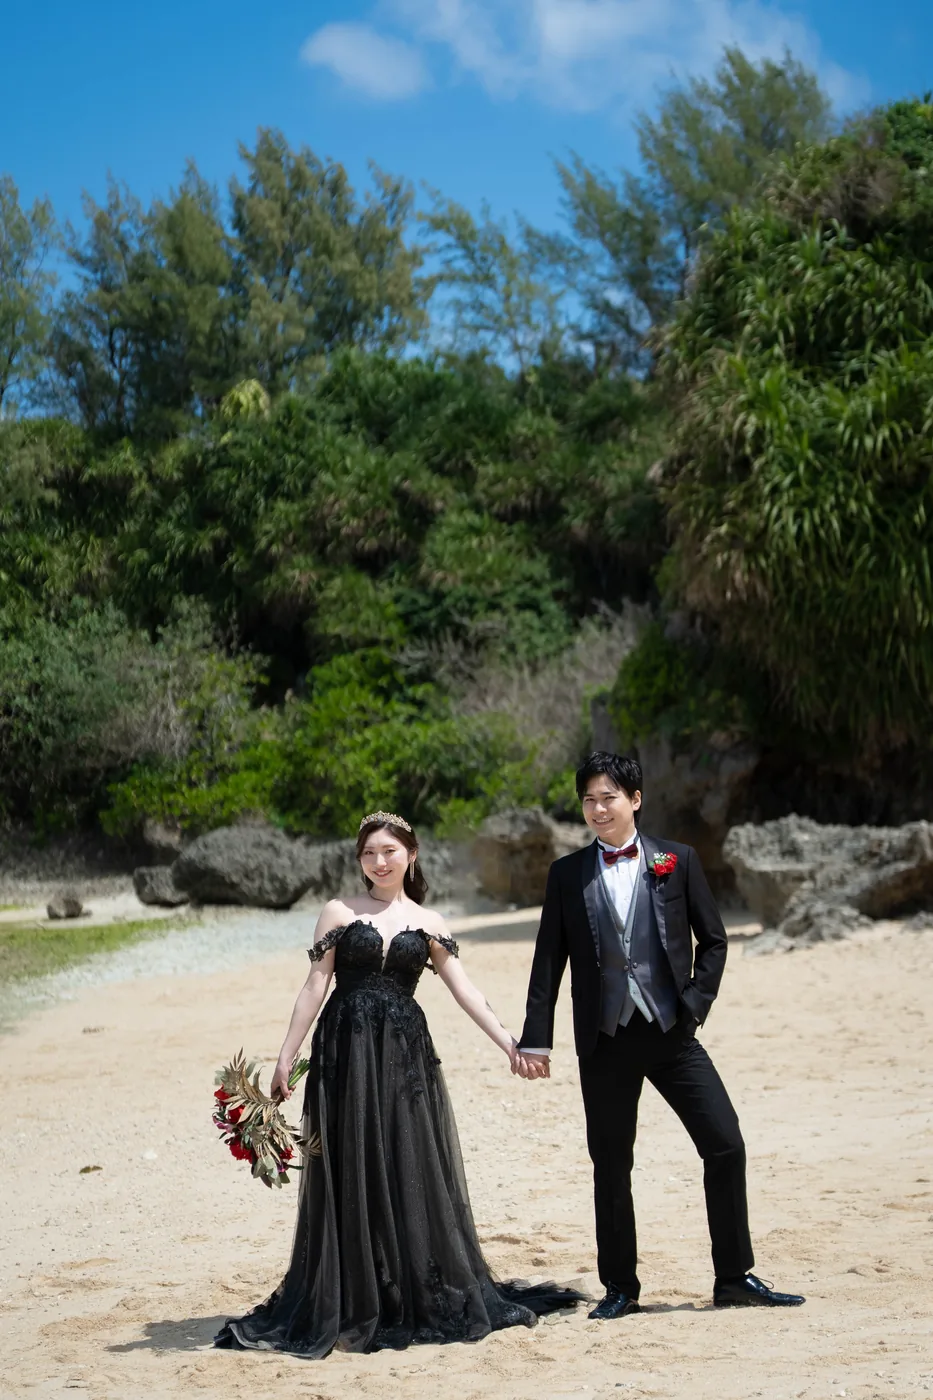
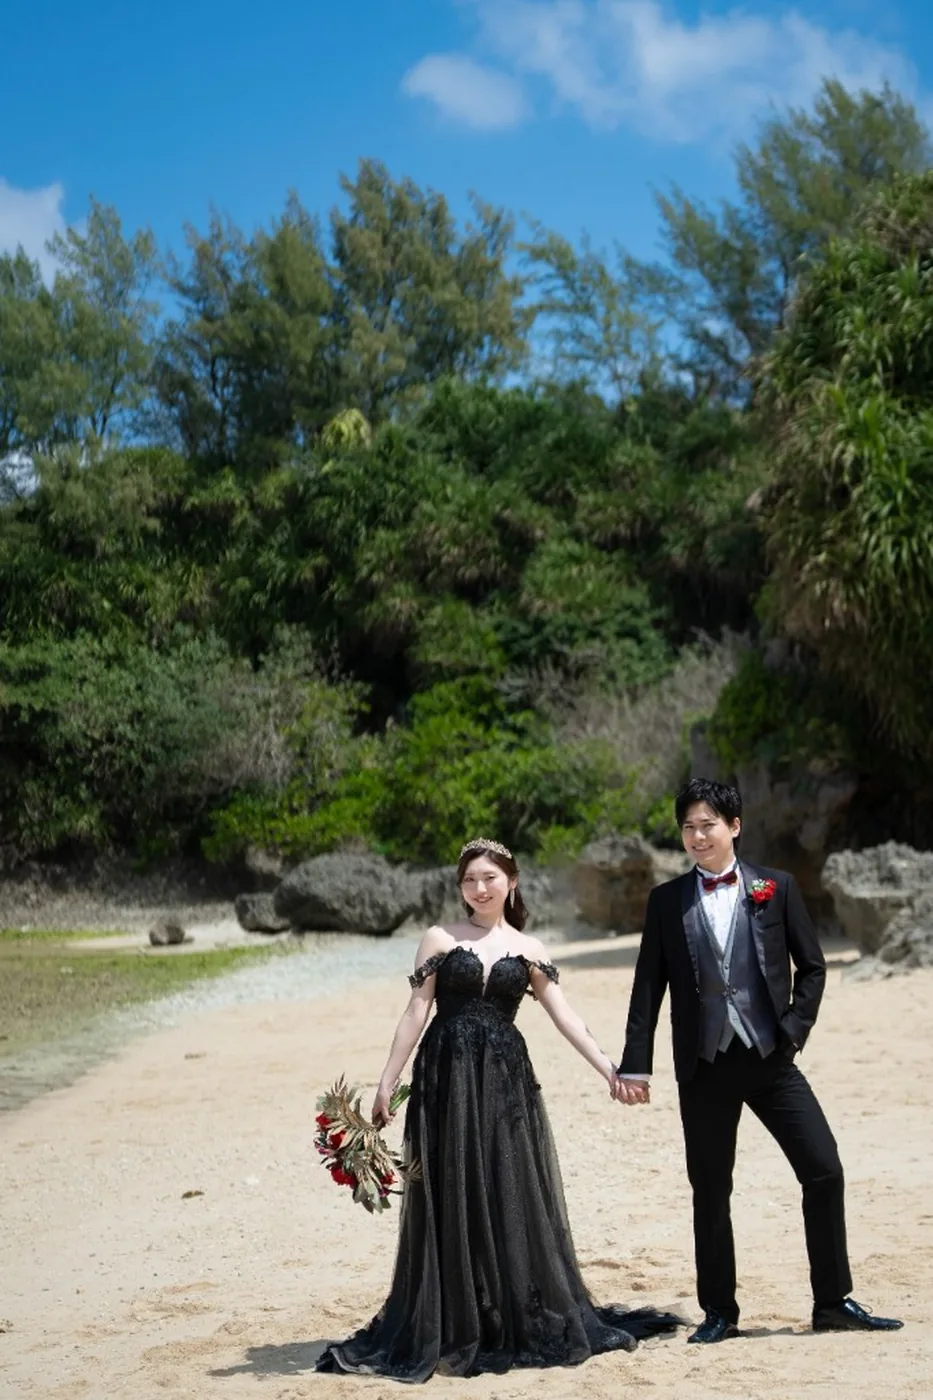
Replace album 5 and align the RSVP sheet columns with the current form questions.

diff --git a/index.html b/index.html
@@ -367,7 +367,7 @@
       <figure><picture><source srcset="assets/img/album-2.webp" type="image/webp"><img src="assets/img/album-2.jpg" alt="" width="1400" height="933" loading="lazy" decoding="async"></picture></figure>
       <figure><picture><source srcset="assets/img/album-3.webp" type="image/webp"><img src="assets/img/album-3.jpg" alt="" width="1400" height="933" loading="lazy" decoding="async"></picture></figure>
       <figure><picture><source srcset="assets/img/album-4.webp" type="image/webp"><img src="assets/img/album-4.jpg" alt="" width="933" height="1400" loading="lazy" decoding="async"></picture></figure>
-      <figure><picture><source srcset="assets/img/album-5.webp?v=2" type="image/webp"><img src="assets/img/album-5.jpg?v=2" alt="" width="933" height="1400" loading="lazy" decoding="async"></picture></figure>
+      <figure><picture><source srcset="assets/img/album-5.webp?v=3" type="image/webp"><img src="assets/img/album-5.jpg?v=3" alt="" width="933" height="1400" loading="lazy" decoding="async"></picture></figure>
       <figure><picture><source srcset="assets/img/album-6.webp" type="image/webp"><img src="assets/img/album-6.jpg" alt="" width="933" height="1400" loading="lazy" decoding="async"></picture></figure>
     </div>
     <div class="dots" id="dots"></div>
